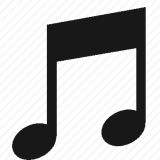
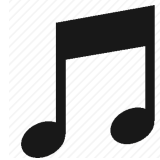
fixed images spacing on home page
changed the empty space to padding

Changed region(s): [[0.0625, 0.0938, 0.625, 1.0], [0.5938, 0.0312, 0.9688, 0.9375], [0.625, 0.0625, 0.8125, 0.0938]]

diff --git a/public/css/general.css b/public/css/general.css
@@ -49,6 +49,8 @@ body {
 .jumboImage{
     max-height: 80px;
     max-width: 80px;
+    margin-right: 8px;
+    margin-left: 8px;
 }
 
 .footer {
